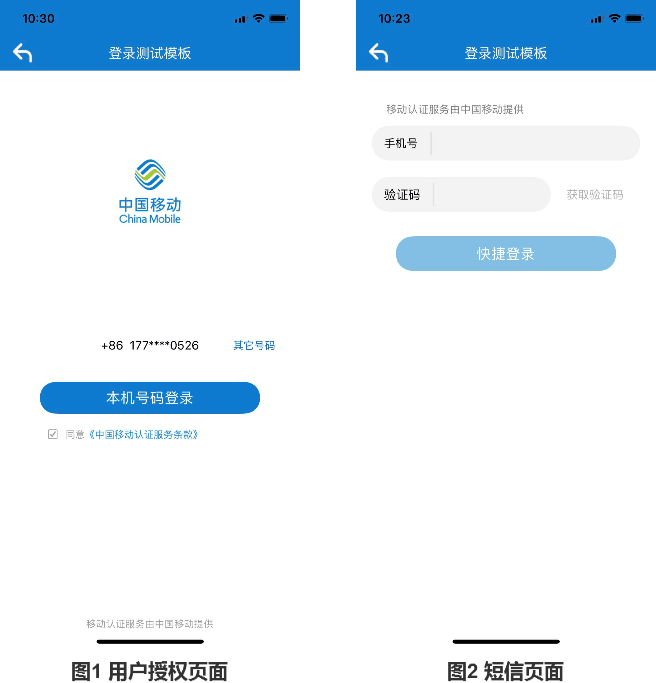
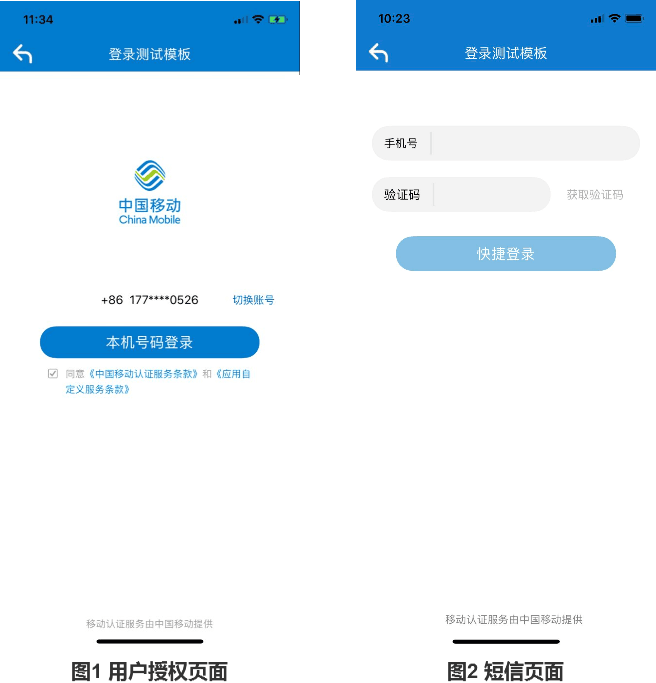
no message

diff --git a/quick_login_ios.md b/quick_login_ios.md
@@ -147,7 +147,9 @@ sdk技术问题沟通QQ群：609994083</br>
 
 **一键登录逻辑说明**
 
-用户点击登录操作时，开发者调用一键登录方法，若开发者提前预取号成功并且凭证存在且有效，SDK将瞬间拉起用户授权页面（图1），用户授权登录后，SDK将返回token给应用客户端。如果开发者没有提前调用预取号方法或凭证失效，取号将会有一个时延（用户等待的交互由开发者完成），取号成功时，将拉起用户授权页面（图1），取号失败时，如果开发者需要使用SDK自带的短信验证码功能，将跳转到验证码登录页面（图2），否则，将跳转到开发者自定义的页面。
+用户点击登录操作时，开发者调用一键登录方法，若开发者提前预取号成功并且凭证存在且有效，SDK将瞬间拉起用户授权页面（图1），用户授权登录后，SDK将返回token给应用客户端。
+
+如果开发者没有提前调用预取号方法或凭证失效，取号将会有一个时延（用户等待的交互由开发者完成），取号成功时，将拉起用户授权页面（图1），取号失败时，将跳转到验证码登录页面（图2）（开发者可以使用自己的短信验证码登录方式，参考4.7章）
 
 ![](image/auth-sms.png)
 
@@ -157,7 +159,7 @@ sdk技术问题沟通QQ群：609994083</br>
 
 ```objective-c
 [TYRZUILogin getTokenExpWithController:self 
- 						       Timeout:8000 
+ 						       timeout:8000 
  							  complete:^(id sender) {
         						
                               //SDK响应时，客户端执行的逻辑
@@ -173,7 +175,7 @@ sdk技术问题沟通QQ群：609994083</br>
 
 ```objective-c
 + (void)getTokenExpWithController:(UIViewController *)vc
-                          Timeout:(NSTimeInterval)timeout
+                          timeout:(NSTimeInterval)timeout
                          complete:(void (^)(id sender))complete;
 ```
 
@@ -199,9 +201,13 @@ sdk技术问题沟通QQ群：609994083</br>
 
 ### 2.5.1. 页面规范细则
 
-iOS授权页面规范：
+**iOS授权页面规范：**
 
+![](image/authModify.png)
 
+**iOS短验页面规范：**
+
+![](image/SMSModify.png)
 
 
 
@@ -209,15 +215,122 @@ iOS授权页面规范：
 
 ###2.5.2. 修改授权页布局
 
+开发者通过调用授权页面布局方法customUIWithParams，根据2.5.1所示规则配置授权页面默认元素，并且允许开发者在授权页面上添加自定义的控件和事件。
 
+**授权页面默认元素修改**
 
+创建一个UACustomModel 类，设置好类的属性（属性名可参考UACustomModel.h文件查看或者查看2.5.3查看model属性）,然后将设置好的model实例作为参数传进 customUIWithParams方法里
 
+**开发者自定义控件**
 
-### 2.5.3. 开发者自定义控件
+customUIWithParams将把授权页面customAreaView回调给开发者，开发者成功获取该页面后，可以在页面上添加自定义的元素和添加事件。
 
+注意：开发者定义的元素无法覆盖授权页面的默认元素
 
+**方法原型**
 
+```objective-c
++ (void)customUIWithParams:(UACustomModel *)model
+               customViews:(void(^)(UIView *customAreaView))customViews;
+```
 
+**参数说明**
+
+| 参数        | 类型          | 说明                                      |
+| ----------- | ------------- | ----------------------------------------- |
+| model       | UACustomModel | 用于配置页面默认元素的类，具体可参考2.5.3 |
+| customViews | UIView        | 开发者自定义控件                          |
+
+**布局示例代码**
+
+```objective-c
+UACustomModel *model = [[UACustomModel alloc]init];
+	model.navReturnImg = [UIImage imageNamed:@"delete.png"];
+    model.logoImg = [UIImage imageNamed:@"(friend_quan)_[图片]SFont.CN"];
+    model.logoWidth = 100;
+    model.logoHeight = 120;
+    model.numberColor = [UIColor blackColor];
+    model.navText = [[NSAttributedString alloc]initWithString:@"你好" attributes:@{}];
+  	...............
+	...............
+	...............
+    [TYRZUILogin customUIWithParams:model 
+     					customViews:^(UIView *customAreaView) {
+        UIImageView *iamgeView = [[UIImageView alloc]initWithImage:[UIImage imageNamed:@"WechatIMG16.jpeg"]];
+//        [customAreaView addSubview:iamgeView];
+                        }
+    ];
+
+```
+
+### 2.5.3. Model属性
+
+**授权页导航栏属性**
+
+| model属性    | 值类型             | 属性说明             |
+| ------------ | ------------------ | -------------------- |
+| navColor     | UIColor            | 导航栏颜色           |
+| barStyle     | UIBarStyle         | 状态栏着色样式       |
+| navText      | NSAttributedString | 导航栏标题           |
+| navReturnImg | UIImage            | 导航返回图标         |
+| navControl   | UIBarButtonItem    | 导航栏右侧自定义控件 |
+
+**Logo属性**
+
+| model属性   | 值类型  | 属性说明                |
+| ----------- | ------- | :---------------------- |
+| logoImg     | UIImage | LOGO图片                |
+| logoWidth   | CGFloat | 图片宽度                |
+| logoHeight  | CGFloat | 图片高度                |
+| logoOffsetY | CGFloat | 图片Y偏移量             |
+| logoHidden  | BOOL    | 图片隐藏，YES时隐藏logo |
+
+**号码栏属性**
+
+| model属性         | 值类型  | 属性说明                              |
+| ----------------- | ------- | ------------------------------------- |
+| oldStyle          | BOOL    | 显示旧版号码栏样式，YES时显示旧版样式 |
+| numberColor       | UIColor | 手机号码字体颜色                      |
+| swithAccHidden    | BOOL    | 隐藏切换账号按钮，YES时隐藏“切换账号” |
+| swithAccTextColor | UIColor | “切换账号”字体颜色                    |
+| numFieldOffsetY   | CGFloat | 号码栏Y偏移量                         |
+
+**登录按钮属性**
+
+| model属性       | 值类型   | 属性说明         |
+| --------------- | -------- | ---------------- |
+| logBtnText      | NSString | 登录按钮文本     |
+| logBtnOffsetY   | CGFloat  | 登录按钮Y偏移量  |
+| logBtnTextColor | UIColor  | 登录按钮文本颜色 |
+| logBtnColor     | UIColor  | 登录按钮背景颜色 |
+
+**隐私条款属性**
+
+| model属性        | 值类型   | 属性说明                     |
+| ---------------- | -------- | ---------------------------- |
+| uncheckedImg     | UIImage  | 复选框未选中时图片           |
+| checkedImg       | UIImage  | 复选框选中时图片             |
+| appPrivacy       | NSString | 隐私条款名称（含书名号）     |
+| appPrivacyColor  | UIColor  | 隐私条款名称颜色（含书名号） |
+| privacyTextColor | UIColor  | 隐私栏文字颜色（不包含条款） |
+| appPrivacyURL    | NSString | 隐私条款链接                 |
+| privacyOffsetY   | CGFloat  | 隐私条款Y偏移量              |
+
+**底部slogan属性**
+
+| model属性       | 值类型  | 属性说明       |
+| --------------- | ------- | -------------- |
+| sloganOffsetY   | CGFloat | slogan偏移量Y  |
+| sloganTextColor | UIColor | slogan文字颜色 |
+
+**短信验证码页面属性**
+
+| model属性          | 值类型             | 属性说明         |
+| ------------------ | ------------------ | ---------------- |
+| SMSNavText         | NSAttributedString | 短验页面导航标题 |
+| SMSLogBtnText      | NSString           | 登录按钮文本内容 |
+| SMSLogBtnTextColor | UIColor            | 登录按钮文本颜色 |
+| SMSLogBtnColor     | UIColor            | 登录按钮颜色     |
 
 ## 2.6. 获取手机号码（服务端）
 
@@ -480,8 +593,6 @@ iOS授权页面规范：
 
 ## 4.1. 初始化
 
-**功能**
-
 用于初始化appId、appKey设置。
 
 **原型**
@@ -591,11 +702,9 @@ iOS授权页面规范：
 
 ##4.5. 获取网络状态和运营商类型
 
-**功能：**
-
 本方法用于获取用户当前的网络环境和运营商
 
-**原型：**
+**原型**
 
 ```objective-c
 +(NSDictionary*)getNetworkType;
@@ -614,8 +723,6 @@ iOS授权页面规范：
 
 ## 4.6. 删除临时取号凭证
 
-**功能**
-
 本方法用于删除取号方法`getPhoneNumberWithTimeout`成功后返回的取号凭证scrip
 
 **原型**
@@ -633,6 +740,66 @@ iOS授权页面规范：
 | 参数  | 类型 | 说明                                          |
 | ----- | ---- | --------------------------------------------- |
 | state | BOOL | 删除结果状态，（YES：删除成功，NO：删除失败） |
+
+## 4.7. 短信验证码页面配置
+
+本方法用于配置应用在一键登录失败后，是否使用应用自己的短信验证码页面。不调用本方法进行配置时，默认认为应用一键登录失败后，将跳转到SDK提供的短信验证码页面。
+
+当state=YES时，用户一键登录失败时，SDK返回错误码到客户端，客户端根据返回码执行后续的逻辑（如跳转到应用自己的短信验证码等）。
+
+另外，当state=YES时，用户可以在授权页面，点击“切换账号”按钮实现跳转到应用自己的短信验证码页面。开发者可以在一键登录方法中实现该跳转功能。
+
+具体实现示例代码如下：
+
+```objective-c
+[TYRZUILogin getTokenExpWithController:self timeout:-1 complete:^(id sender) {
+       
+    NSLog(@"显示登录:%@",sender);
+        NSString *resultCode = sender[@"resultCode"];
+        self.token = sender[@"token"];
+        NSMutableDictionary *result = [sender mutableCopy];
+        NSLog(@"result = %@",result);
+        if ([resultCode isEqualToString:CLIENTSUCCESSCODECLIENT]) {
+            [self dismissViewControllerAnimated:YES completion:nil];
+            result[@"result"] = @"获取token成功";
+            
+            //用户点击了“切换账号”（customSMS为YES才返回）
+        }else if ([resultCode isEqualToString:@"200060"]){
+            
+            UINavigationController *nav = sender[@"NavigationController"];
+            UIViewController *vc = [[UIViewController alloc]init];
+            
+            
+            //导航栏push模式，可以跳回授权页面
+            [nav pushViewController:vc animated:YES];
+
+            //present模式，无法跳回授权页面
+            //[self presentViewController:vc animated:YES completion:nil];
+        }
+        else {
+            [self dismissViewControllerAnimated:YES completion:nil];
+            result[@"result"] = @"获取token失败";
+        }
+            [self showInfo:result];        
+    }];
+
+```
+
+**原型**
+
+```objective-c
++ (void)enableCustomSMS:(BOOL)state;
+```
+
+**请求参数**
+
+无
+
+**响应参数**
+
+| 参数  | 类型 | 说明                                              |
+| ----- | ---- | ------------------------------------------------- |
+| state | BOOL | 是否使用开发者自定义短验（YES：使用；NO：不使用） |
 
 <div STYLE="page-break-after: always;"></div>
 
@@ -806,54 +973,55 @@ iOS授权页面规范：
 
 使用SDK时，SDK会在认证结束后将结果回调给开发者，其中结果为JSONObject对象，其中resultCode为结果响应码，103000代表成功，其他为失败。成功时在根据token字段取出身份标识。失败时根据resultCode定位失败原因。
 
-| 返回码描述                                         | 返回码 |
-| -------------------------------------------------- | ------ |
-| 成功                                               | 103000 |
-| 无网络                                             | 102101 |
-| 网络异常                                           | 102102 |
-| 未开启数据网络                                     | 102103 |
-| 用户取消登录                                       | 102121 |
-| 输入参数错误                                       | 102203 |
-| 数据解析异常                                       | 102223 |
-| 请求超时                                           | 102507 |
-| 数据网络切换失败                                   | 102508 |
-| 手机未安装sim卡                                    | 200002 |
-| 用户未授权（READ_PHONE_STATE）                     | 200005 |
-| 用户未授权（SEND_SMS）                             | 200006 |
-| authType仅使用短信验证码认证                       | 200007 |
-| 1. authType参数为空；2. authType参数不合法；       | 200008 |
-| 应用合法性校验失败（包名包签名未填写正确）         | 200009 |
-| 预取号时imsi获取失败或者没有sim卡                  | 200010 |
-| 取号失败，跳短信验证码登录                         | 200012 |
-| 短信上行发送短信失败（短信上行）                   | 200013 |
-| 手机号码格式错误（短验）                           | 200014 |
-| 短信验证码格式错误                                 | 200015 |
-| 更新KS失败                                         | 200016 |
-| 非移动卡不支持短信上行                             | 200017 |
-| 不支持网关登录                                     | 200018 |
-| 不支持短信验证码登录                               | 200019 |
-| 用户取消登录                                       | 200020 |
-| 数据解析异常（服务器异常可重新尝试）               | 200021 |
-| 无网络状态                                         | 200022 |
-| 请求超时                                           | 200023 |
-| 数据网络切换失败                                   | 200024 |
-| 未知错误一般出现在线程捕获异常，请配合异常打印分析 | 200025 |
-| 输入参数错误                                       | 200026 |
-| 预取号时未开启数据流量                             | 200027 |
-| 网络请求出错（根据日志分析）                       | 200028 |
-| 请求出错,上次请求未完成                            | 200029 |
-| 没有初始化参数                                     | 200030 |
-| 生成token失败                                      | 200031 |
-| KS缓存不存在                                       | 200032 |
-| 复用中间件获取Token失败                            | 200033 |
-| 预取号token失效                                    | 200034 |
-| 协商ks失败                                         | 200035 |
-| 预取号失败                                         | 200036 |
-| 获取不到openid                                     | 200037 |
-| 电信重定向失败                                     | 200038 |
-| 电信取号接口返回失败                               | 200039 |
-| UI资源加载异常                                     | 200040 |
-| 授权页弹出异常                                     | 200042 |
+| 返回码 | 返回码描述                                         |
+| ------ | -------------------------------------------------- |
+| 103000 | 成功                                               |
+| 102101 | 无网络                                             |
+| 102102 | 网络异常                                           |
+| 102103 | 未开启数据网络                                     |
+| 102121 | 用户取消登录                                       |
+| 102203 | 输入参数错误                                       |
+| 102223 | 数据解析异常                                       |
+| 102507 | 请求超时                                           |
+| 102508 | 数据网络切换失败                                   |
+| 200002 | 手机未安装sim卡                                    |
+| 200005 | 用户未授权（READ_PHONE_STATE）                     |
+| 200006 | 用户未授权（SEND_SMS）                             |
+| 200007 | authType仅使用短信验证码认证                       |
+| 200008 | 1. authType参数为空；2. authType参数不合法；       |
+| 200009 | 应用合法性校验失败（包名包签名未填写正确）         |
+| 200010 | 预取号时imsi获取失败或者没有sim卡                  |
+| 200012 | 取号失败，跳短信验证码登录                         |
+| 200013 | 短信上行发送短信失败（短信上行）                   |
+| 200014 | 手机号码格式错误（短验）                           |
+| 200015 | 短信验证码格式错误                                 |
+| 200016 | 更新KS失败                                         |
+| 200017 | 非移动卡不支持短信上行                             |
+| 200018 | 不支持网关登录                                     |
+| 200019 | 不支持短信验证码登录                               |
+| 200020 | 用户取消登录                                       |
+| 200021 | 数据解析异常（服务器异常可重新尝试）               |
+| 200022 | 无网络状态                                         |
+| 200023 | 请求超时                                           |
+| 200024 | 数据网络切换失败                                   |
+| 200025 | 未知错误一般出现在线程捕获异常，请配合异常打印分析 |
+| 200026 | 输入参数错误                                       |
+| 200027 | 预取号时未开启数据流量                             |
+| 200028 | 网络请求出错（根据日志分析）                       |
+| 200029 | 请求出错,上次请求未完成                            |
+| 200030 | 没有初始化参数                                     |
+| 200031 | 生成token失败                                      |
+| 200032 | KS缓存不存在                                       |
+| 200033 | 复用中间件获取Token失败                            |
+| 200034 | 预取号token失效                                    |
+| 200035 | 协商ks失败                                         |
+| 200036 | 预取号失败                                         |
+| 200037 | 获取不到openid                                     |
+| 200038 | 电信重定向失败                                     |
+| 200039 | 电信取号接口返回失败                               |
+| 200040 | UI资源加载异常                                     |
+| 200042 | 授权页弹出异常                                     |
+| 200060 | 用户点击“切换账号”且使用应用自己的短信验证码时返回 |
 
 ## 6.2. 获取手机号码接口返回码
 
